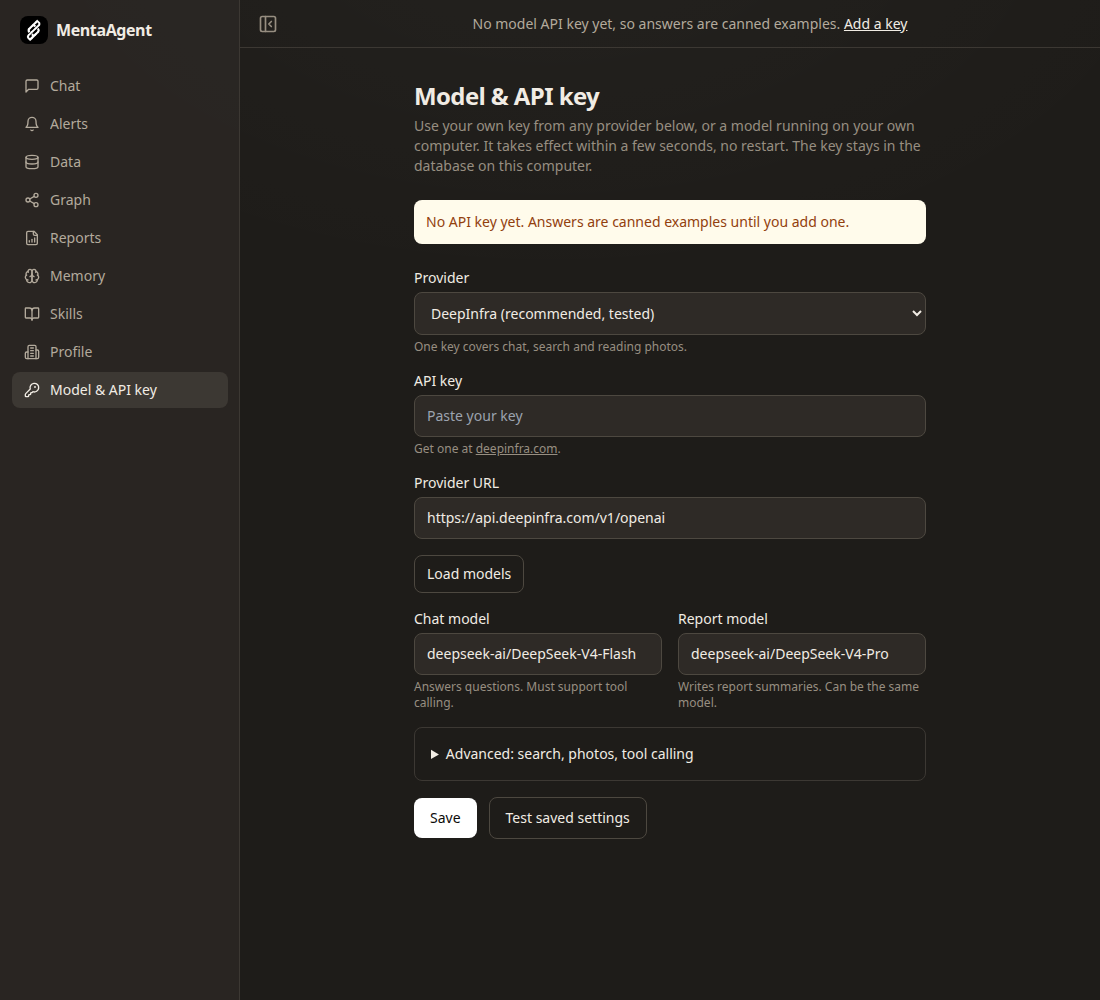
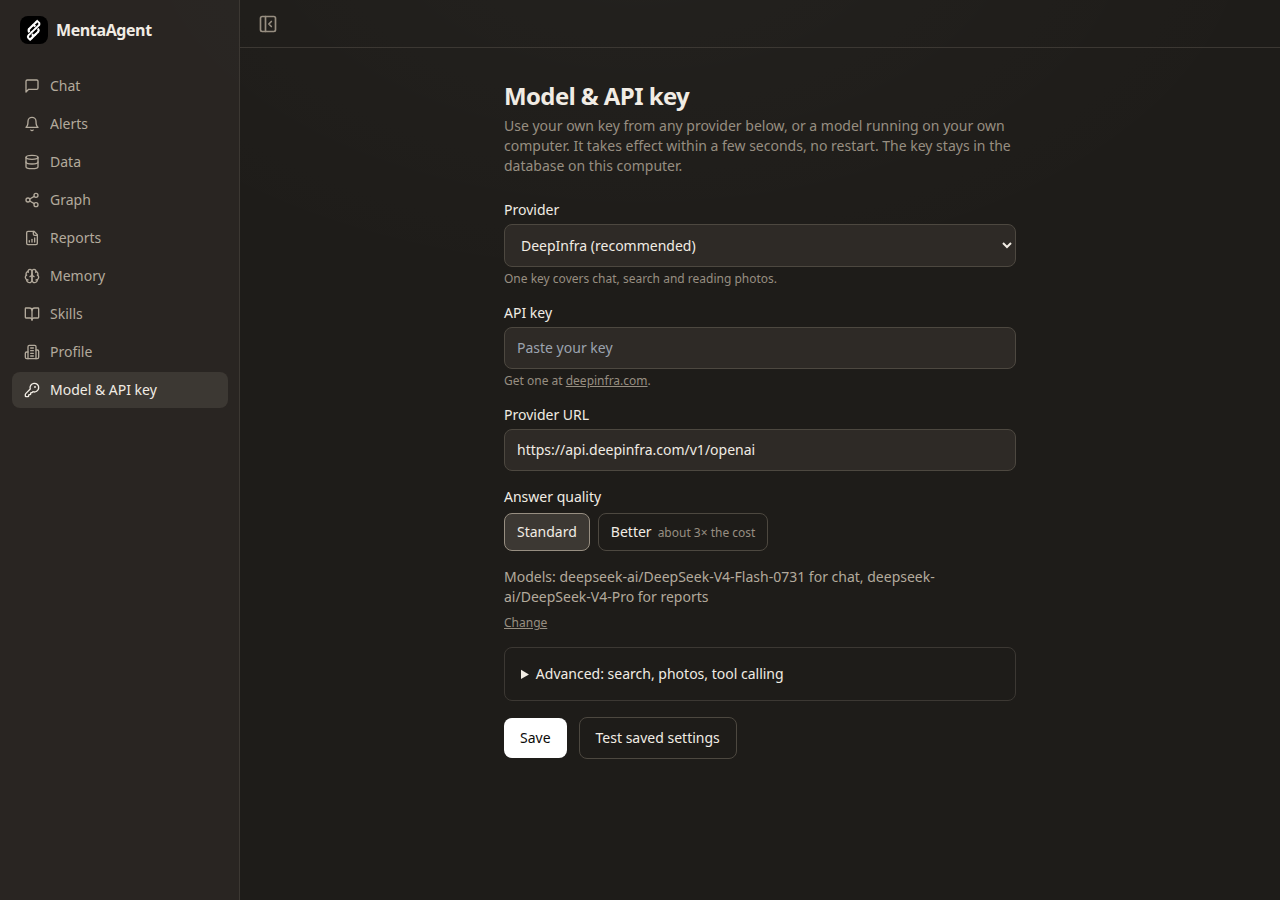
README: providers, costs, security; new settings screenshot
- Providers: current presets, Standard/Better, which ones are tested with
  real keys (DeepInfra, DeepSeek), Ollama marked untested with pull commands,
  corrected embeddings/photo support per provider.
- Models: DeepInfra defaults and prices as of Sep 2026.
- Costs: measured 2026-09-28 on DeepSeek's API, from token counts at list
  prices (chat $0.002-0.004 over 12 questions, a full report $0.07-0.14),
  replacing the June figures that predate DeepSeek's price change.
- New Security section: localhost only, cross-site/rebinding refused, keys
  bound to their provider, documents as untrusted input, and the Next 14 /
  Fastify 4 advisories that remain and why they don't apply.
- Reusable parts: adaptChatParams and the safe calculator.
- Status says most of the code was written with Claude Code.
- Screenshot shows the current settings page (no key or local data in it).

diff --git a/README.md b/README.md
@@ -42,8 +42,10 @@ Open http://localhost:3000. That's it: no account to create.
 
 1. **Add a model key.** Open **Model & API key** in the sidebar, pick your
    provider, paste your own key and press Save. It takes effect within
-   seconds, no restart. "Load models" lists the models your provider offers,
-   and "Test saved settings" checks the key before you rely on it.
+   seconds, no restart. The provider's suggested models are filled in for you;
+   choose **Standard** or **Better** answers (Better costs more, and the page
+   says roughly how much), or click **Change** to pick any model the provider
+   offers. "Test saved settings" checks the key before you rely on it.
 2. **Tell it about the business** on the **Profile** page.
 3. **Upload files** on the **Data** page. To try it without your own data, use
    [`samples/`](samples/): a fictional catering company's revenue, clients,
@@ -65,19 +67,24 @@ uploaded files and settings are kept in Docker volumes between restarts.
   the app on `127.0.0.1` only. To reach it from another device, put it behind
   something that does authentication (a VPN such as Tailscale, or a reverse
   proxy with a password). Do not simply open the port.
-- **Any provider, your own key.** The page has presets for DeepInfra, OpenAI,
-  Anthropic (Claude), Google Gemini, OpenRouter, Groq, Mistral, DeepSeek,
-  Together and Ollama, plus any other OpenAI-compatible server. Only DeepInfra
-  has been tested end to end with a real key; the others follow each
-  provider's OpenAI-compatibility documentation, and the test button tells
-  you quickly if something is off. The chat model must support tool calling.
-- **Free and offline with Ollama.** Pick "Ollama", no key needed; the app
-  reaches it on your computer at `host.docker.internal:11434`.
+- **Any provider, your own key.** Presets for OpenAI, Anthropic (Claude),
+  Google Gemini, OpenRouter, DeepSeek, Ollama, Groq, Mistral, Together and
+  DeepInfra, plus any other OpenAI-compatible server. Each provider's models,
+  address and prices were checked against its documentation in September
+  2026, and the differences between providers (such as switching off a
+  model's "thinking" step) are handled for you. **Tested end to end with real
+  keys: DeepInfra and DeepSeek.** The others follow their documentation; the
+  test button tells you quickly if something is off. The chat model must
+  support tool calling.
+- **Ollama runs it for free on your own computer, but is untested.** Pick
+  "Ollama", no key needed; the app reaches it at `host.docker.internal:11434`.
+  Run `ollama pull qwen3.5:4b` and `ollama pull bge-m3` first. Small local
+  models are slower and less reliable at tool calling than hosted ones.
 - **Search and photos depend on the provider.** Semantic search needs an
-  embeddings model that returns 1024-dimension vectors (DeepInfra, OpenAI,
-  Gemini, Mistral, Together and Ollama have one). Anthropic, Groq, DeepSeek and
-  OpenRouter don't, so search falls back to keywords; you can add a separate
-  embeddings provider under Advanced.
+  embeddings model that returns 1024-dimension vectors. DeepInfra, OpenAI,
+  Gemini, Mistral, OpenRouter and Ollama have one. Anthropic, DeepSeek, Groq
+  and Together don't, so search falls back to keywords; you can add a separate
+  embeddings provider under Advanced. Groq can't read photos; the others can.
 - **Missing keys turn features off rather than breaking the app.** With no
   embeddings key, search falls back to Postgres full-text. With no vision
   model, image uploads are refused.
@@ -94,8 +101,33 @@ Everything works without these. To use one, create a file named `.env` next to
 | Setting | What it does |
 |---|---|
 | `LLM_DAILY_USD_CAP=5` | Stops model calls for the day once spending reaches $5. Default: no cap. |
-| `WEB_ORIGIN=https://your.domain` | The address the app is served on, if not `http://localhost:3000`. It is built into the app, so rebuild after changing it: `docker compose up -d --build`. |
+| `WEB_ORIGIN=https://your.domain` | The address the app is served on, if not `http://localhost:3000` (comma-separated for several). Requests addressed to anything else are refused (see Security). It is built into the app, so rebuild after changing it: `docker compose up -d --build`. |
 | `LLM_API_KEY`, `LLM_BASE_URL`, `AGENT_MODEL`, `HEAVY_MODEL`, `LLM_TOOL_MODE`, `EMBEDDINGS_API_KEY`, `EMBEDDINGS_BASE_URL`, `EMBEDDINGS_MODEL`, `VISION_MODEL` | The same model settings as the Settings page, for people who prefer a file. Values saved on the page win. |
+
+### Security
+
+- **Nothing is reachable from other machines.** The app, database and Redis
+  listen on `127.0.0.1` only, and there is no login.
+- **Other websites can't use it through your browser.** A page open in your
+  browser runs on the same machine, so the app also refuses requests
+  addressed to any name but `localhost` (blocking DNS rebinding) and changes
+  that come from another site's pages. Add your own address to `WEB_ORIGIN`
+  if you put it behind a proxy.
+- **Your API key only goes to its provider.** Keys are stored in the local
+  database and never sent back to the browser (it shows the last four
+  characters). If the provider address changes without a new key, the saved
+  key is deleted.
+- **Documents are untrusted input.** The model reads your files, so a file
+  could try to steer it. Document text is marked as data, the tools the agent
+  can use are limited per kind of task, and the calculator only understands
+  numbers and arithmetic. This reduces the risk; it does not remove it. Only
+  upload files you'd be comfortable having the model read.
+- **Known and not yet fixed:** Next.js 14 and Fastify 4 have published
+  advisories that are fixed only in their next major versions. Each was
+  reviewed and none applies to this setup (they need Windows hosting,
+  features the app doesn't use, or requests the checks above refuse); the
+  image optimizer several of them concern is switched off. The upgrade is a
+  good first contribution.
 
 ## What it does, in detail
 
@@ -170,6 +202,15 @@ These solve problems that come up in most LLM agent projects:
   categories with hard character budgets. A write over budget fails with
   "consolidate first", which makes the agent merge old entries rather than
   append forever, and duplicates are skipped.
+- **One place for provider differences**
+  ([`adaptChatParams`](apps/api/src/services/llm/client.ts)). "OpenAI-compatible"
+  providers still differ: which parameter turns thinking off, whether
+  `max_tokens` is accepted, which fields are rejected. One function adjusts
+  each request per provider, with tests.
+- **A calculator the model can't escape**
+  ([`tools/math.ts`](apps/api/src/services/agent/tools/math.ts)). A small
+  arithmetic parser (numbers, operators, a fixed list of functions) for
+  model-written expressions, which come from untrusted documents in the end.
 - **Prompt-injection hygiene.** Document text is always wrapped in
   `<document>` markers and the model is told it is data, never instructions.
   Tools are whitelisted per kind of run, and the workspace id comes from the
@@ -177,32 +218,36 @@ These solve problems that come up in most LLM agent projects:
 
 ## Models
 
-Defaults, all on [DeepInfra](https://deepinfra.com) with one key:
+The defaults, all on [DeepInfra](https://deepinfra.com) with one key:
 
-| Job | Model | List price per million tokens (Jun 2026) |
+| Job | Model | List price per million tokens (Sep 2026) |
 |---|---|---|
-| Chat and agent work | `deepseek-ai/DeepSeek-V4-Flash` | $0.10 in / $0.20 out |
+| Chat and agent work (Standard) | `deepseek-ai/DeepSeek-V4-Flash-0731` | $0.06 in / $0.18 out |
+| Chat and agent work (Better) | `deepseek-ai/DeepSeek-V4.1-Flash` | $0.20 in / $0.60 out |
 | Report summaries | `deepseek-ai/DeepSeek-V4-Pro` | $1.30 in / $2.60 out |
 | Embeddings | `BAAI/bge-m3` (1024 dimensions) | $0.01 |
 | Reading images | `Qwen/Qwen3-VL-30B-A3B-Instruct` | $0.15 in / $0.60 out |
 
-**What it actually cost**, from the development database (DeepSeek V4 Flash).
-The samples are small, so read these as orders of magnitude:
+Every other provider has its own Standard and Better models; see
+[`lib/providers.ts`](apps/web/lib/providers.ts).
+
+**What it actually cost**, measured on 2026-09-28 with DeepSeek's own API
+(`deepseek-flash` for chat, `deepseek-v4-pro` for the report summary) on the
+sample data. Figures are computed from the token counts at DeepSeek's list
+prices, off-peak to peak, before cache discounts, so real bills are usually
+lower. The samples are small: read them as orders of magnitude.
 
 | Run | Measured runs | Average | Highest |
 |---|---|---|---|
-| A chat question | 2 | $0.003 | $0.004 |
-| Weekly monitor | 28 | $0.012 | $0.047 |
-| Memory consolidation | 28 | $0.0005 | $0.002 |
+| A chat question | 12 | $0.002–0.004 | $0.009 |
+| A full report (7 sections + summary, ~2 min) | 1 | $0.07–0.14 | |
+| Weekly monitor | 1 | $0.006–0.011 | |
+| Memory consolidation | 1 | $0.001 | |
 
-Embedding about 31,000 tokens of documents cost $0.0004 in total. No full
-report finished in the measured data, so there is no report figure yet. Each
-kind of run also has a hard cost cap in
+Each kind of run also has a hard cost cap in
 [`services/agent/types.ts`](apps/api/src/services/agent/types.ts) (for
-example $0.25 per chat answer, $2 per report).
-
-Also used during development: Nous Hermes 4 70B/405B on Nebius, and
-DeepSeek's own API. Prices for other models are in the table at the top of
+example $0.25 per chat answer, $2 per report), and `LLM_DAILY_USD_CAP` caps a
+day. The app meters every call against the price table at the top of
 [`services/llm/client.ts`](apps/api/src/services/llm/client.ts); a model
 missing from it is metered at a deliberately high fallback rate and logs a
 warning, so add yours there.
@@ -219,7 +264,9 @@ here.
 
 Built in eight days in June 2026 as a subscription product, stopped before
 launch, and released here as finished work: accounts and billing removed, one
-person per install. There is no hosted version and no company behind it.
+person per install. There is no hosted version and no company behind it. Most
+of the code was written with [Claude Code](https://claude.com/claude-code);
+the design, testing and decisions are the maintainer's.
 
 What works: everything above, tested end to end on a fresh clone with
 `docker compose up`. What is not built: connectors (Google Drive and others),
@@ -244,8 +291,10 @@ pnpm --filter web dev          # web on :3000, in a third
 pnpm --filter api test         # tests use a stub model and never call a paid one
 ```
 
-Good first contributions: more file types (`.doc`, `.msg`), a "generate report
-now" button, translations of the UI, and pricing entries for more models.
+Good first contributions: upgrading to Next.js 15 and Fastify 5 (see
+Security), a real-key test report for a provider not yet tested, more file
+types (`.doc`, `.msg`), a "generate report now" button, translations of the
+UI, and pricing entries for more models.
 
 ## License
 
